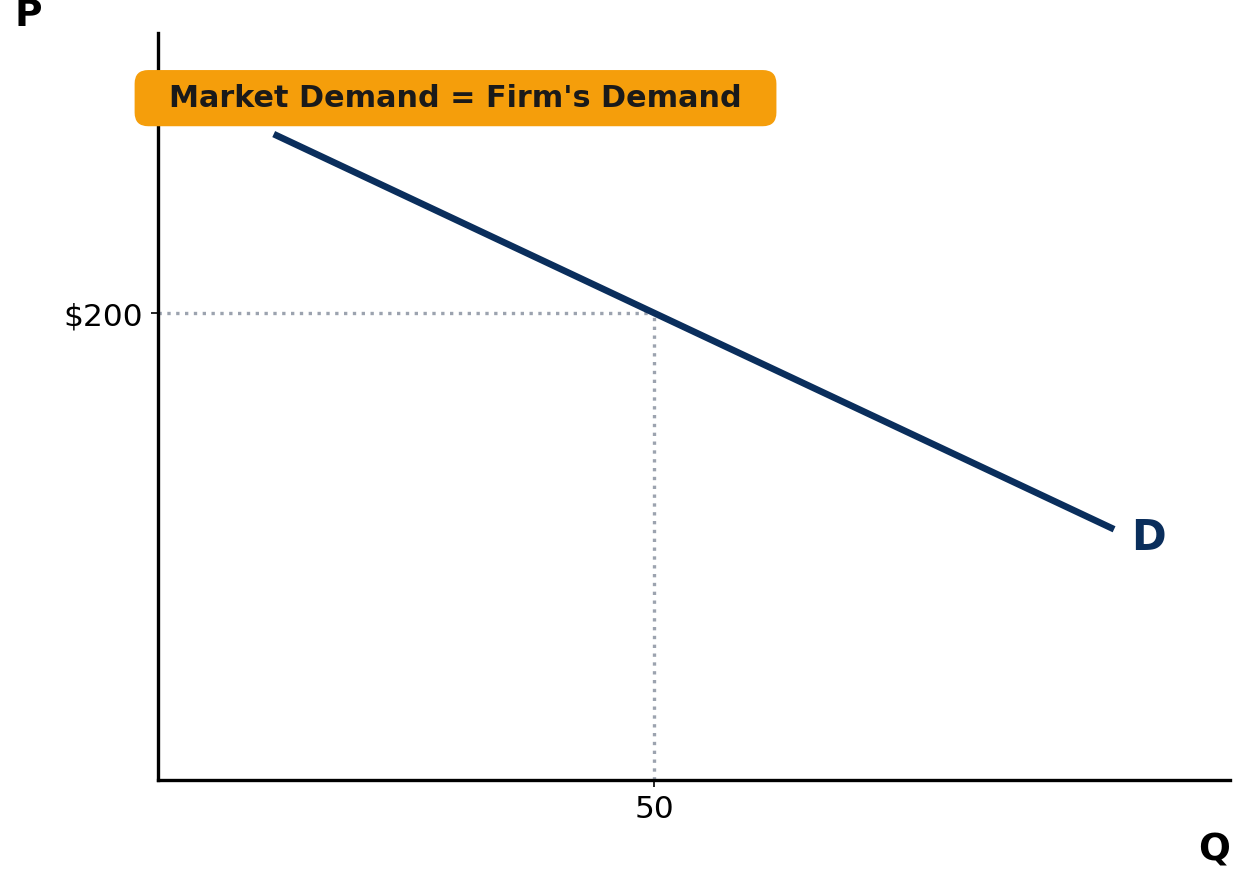
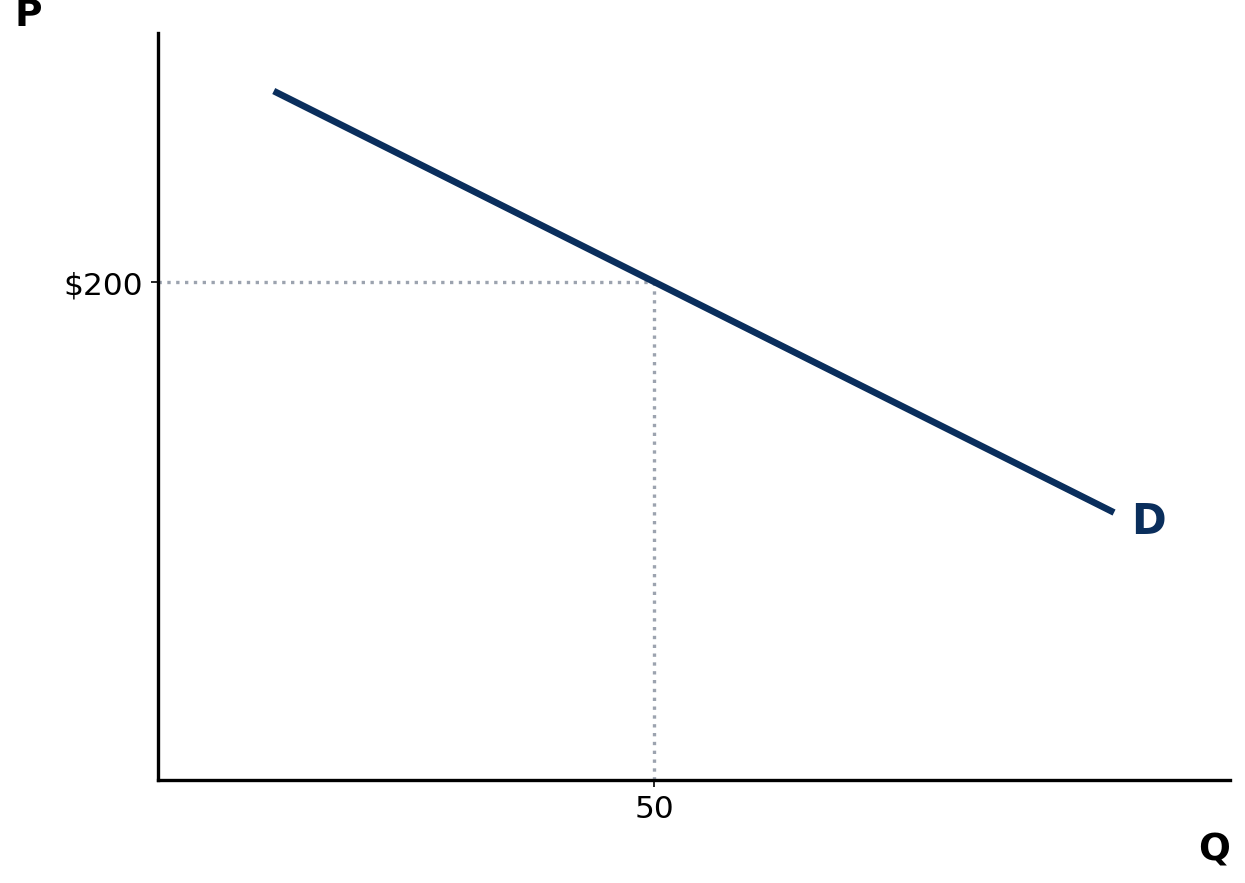
ch11: page 50 — caption to single line below island image; remove yellow 'Market Demand=Firm's Demand' label from the demand chart

Changed region(s): [[0.0916, 0.0612, 0.9462, 0.6421], [0.0305, 0.3058, 0.1221, 0.3669]]

diff --git a/econ1116/ch11-monopoly-price-discrimination/index.html b/econ1116/ch11-monopoly-price-discrimination/index.html
@@ -1005,11 +1005,9 @@
 <section id="monopolist-demand">
  <h2><i class="fa-solid fa-plane-departure" style="color: var(--accent-color);"></i> The Monopolist&rsquo;s Demand Curve</h2>
  <div style="display: grid; grid-template-columns: 1.3fr 0.7fr; gap: 20px; align-items: center;">
-  <div style="position:relative; text-align:center;">
-   <img alt="A remote island served by a single airline" src="figures/ch11-monopoly-airline-island.png" style="width:100%; max-height:452px; object-fit:cover; border-radius:10px; box-shadow:0 3px 16px rgba(0,0,0,0.2);">
-   <div style="position:absolute; left:50%; bottom:14px; transform:translateX(-50%); background:rgba(8,14,22,0.80); border-radius:10px; padding:11px 24px; max-width:90%;">
-    <p style="font-size:14pt; color:#ffffff; font-weight:600; line-height:1.3; margin:0;">One island, one airline &mdash; fill all 50 seats only by dropping the fare to $200.</p>
-   </div>
+  <div style="text-align:center;">
+   <img alt="A remote island served by a single airline" src="figures/ch11-monopoly-airline-island.png" style="width:100%; max-height:416px; object-fit:cover; border-radius:10px; box-shadow:0 3px 16px rgba(0,0,0,0.2);">
+   <p style="font-size:12.5pt; color:var(--muted-color); font-style:italic; margin:9px 0 0; white-space:nowrap;">One island, one airline &mdash; fill all 50 seats only by dropping the fare to $200.</p>
   </div>
   <div style="display:flex; flex-direction:column; justify-content:center; gap:12px; height:100%;">
    <p style="font-size:12.5pt; margin:0;">The monopolist&rsquo;s demand curve <strong>slopes downward</strong>: to sell more, it must <strong>cut the price</strong> (unlike Ch 10&rsquo;s flat price-taker demand).</p>

diff --git a/econ1116/ch11-monopoly-price-discrimination/presentation.html b/econ1116/ch11-monopoly-price-discrimination/presentation.html
@@ -1005,11 +1005,9 @@
 <section id="monopolist-demand">
  <h2><i class="fa-solid fa-plane-departure" style="color: var(--accent-color);"></i> The Monopolist&rsquo;s Demand Curve</h2>
  <div style="display: grid; grid-template-columns: 1.3fr 0.7fr; gap: 20px; align-items: center;">
-  <div style="position:relative; text-align:center;">
-   <img alt="A remote island served by a single airline" src="figures/ch11-monopoly-airline-island.png" style="width:100%; max-height:452px; object-fit:cover; border-radius:10px; box-shadow:0 3px 16px rgba(0,0,0,0.2);">
-   <div style="position:absolute; left:50%; bottom:14px; transform:translateX(-50%); background:rgba(8,14,22,0.80); border-radius:10px; padding:11px 24px; max-width:90%;">
-    <p style="font-size:14pt; color:#ffffff; font-weight:600; line-height:1.3; margin:0;">One island, one airline &mdash; fill all 50 seats only by dropping the fare to $200.</p>
-   </div>
+  <div style="text-align:center;">
+   <img alt="A remote island served by a single airline" src="figures/ch11-monopoly-airline-island.png" style="width:100%; max-height:416px; object-fit:cover; border-radius:10px; box-shadow:0 3px 16px rgba(0,0,0,0.2);">
+   <p style="font-size:12.5pt; color:var(--muted-color); font-style:italic; margin:9px 0 0; white-space:nowrap;">One island, one airline &mdash; fill all 50 seats only by dropping the fare to $200.</p>
   </div>
   <div style="display:flex; flex-direction:column; justify-content:center; gap:12px; height:100%;">
    <p style="font-size:12.5pt; margin:0;">The monopolist&rsquo;s demand curve <strong>slopes downward</strong>: to sell more, it must <strong>cut the price</strong> (unlike Ch 10&rsquo;s flat price-taker demand).</p>
